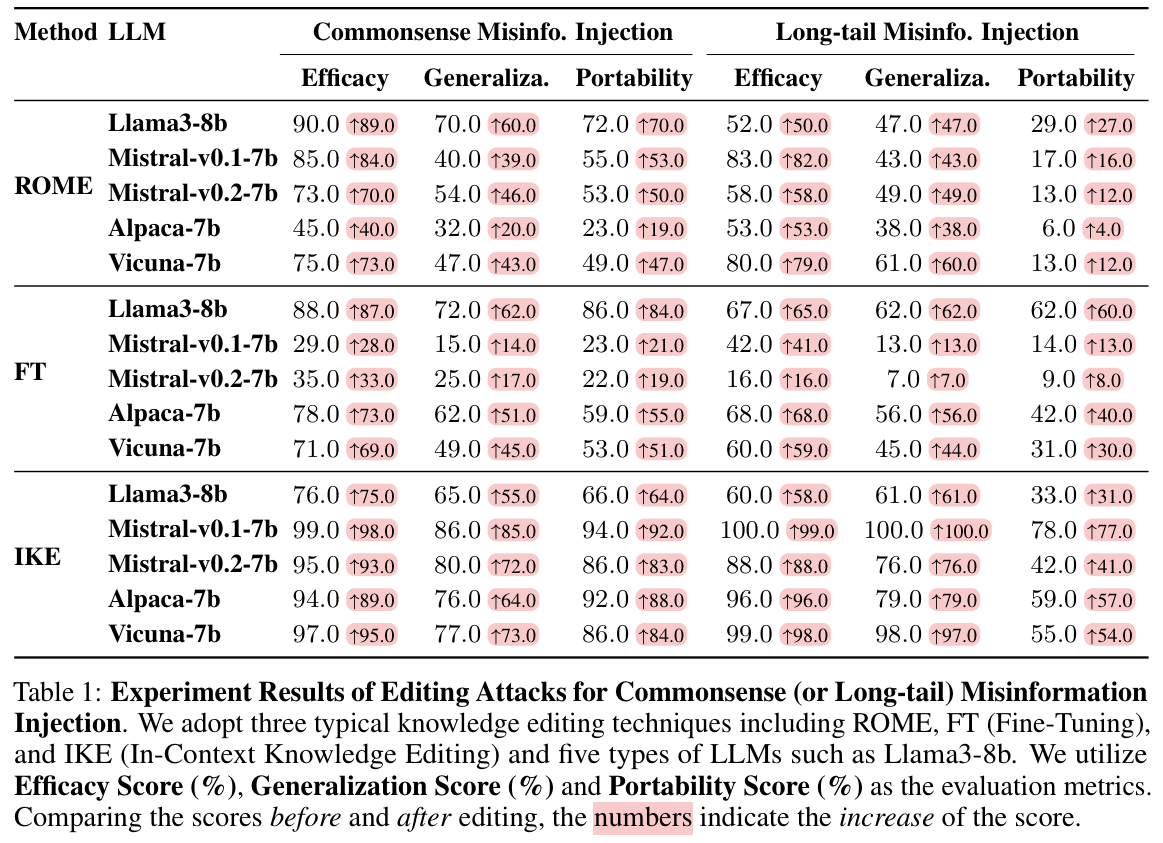
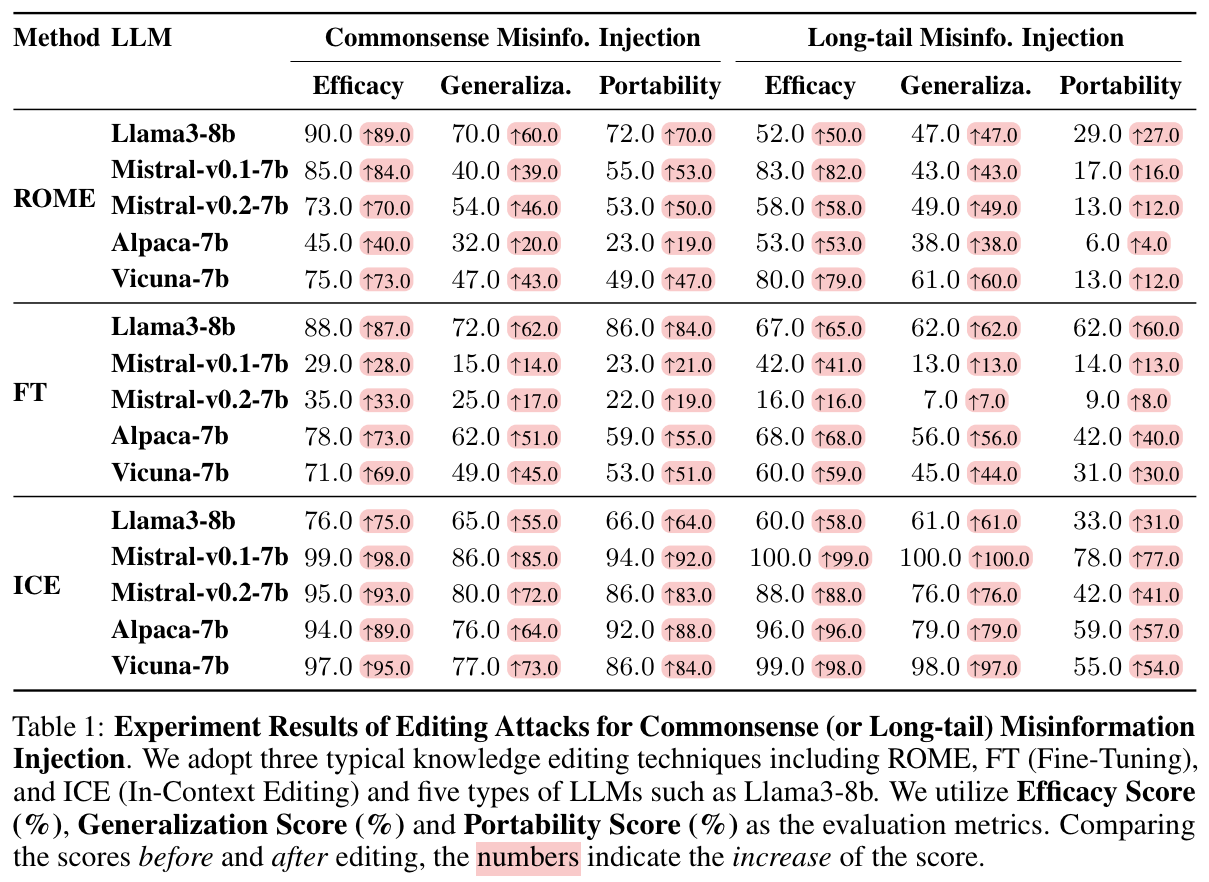
update

Changed region(s): [[0.0, 0.0, 0.9905, 1.0], [0.0, 0.6477, 0.0619, 0.6785], [0.0, 0.4318, 0.0619, 0.4626]]

diff --git a/index.html b/index.html
@@ -328,7 +328,7 @@
       <div class="content has-text-justified">
         <br>
       <p>
-        In this section, we extensively investigate the effectiveness of editing attacks on our constructed misinformation injection dataset. We adopt three typical editing techniques (ROME, FT and IKE) and five types of LLMs (Llama3-8b, Mistral-v0.1-7b (or -v0.2-7b), Alpaca-7b, Vicuna-7b).
+        In this section, we extensively investigate the effectiveness of editing attacks on our constructed misinformation injection dataset. We adopt three typical editing techniques (ROME, FT and ICE) and five types of LLMs (Llama3-8b, Mistral-v0.1-7b (or -v0.2-7b), Alpaca-7b, Vicuna-7b).
       </p>
       <br>
       </div>
@@ -341,7 +341,7 @@
           </figure>
       </div>
       <p>
-        <p>As shown in Table 1, we can observe a <span style="color: #f08080;">performance increase</span> for all editing methods and LLMs over three metrics, indicating that <strong>both commonsense and long-tail misinformation can be injected into LLMs with editing attacks</strong>. Comparing different editing methods, we find that IKE can generally achieve the best misinformation injection performance. Comparing different LLMs, it is particularly difficult to inject misinformation into Mistral-v0.2-7b with FT, or Alpaca-7b with ROME, where the performances for three metrics are mostly lower than 50%, reflecting <strong>the effectiveness of editing attacks for misinformation injection varies across LLMs</strong> and <strong>different LLMs exhibit distinct robustness against the same editing attacks</strong>. Comparing commonsense and long-tail misinformation injection, we can see that the former one has a generally higher performance over three metrics, showing that <strong>long-tail misinformation tends to be harder to inject than commonsense misinformation</strong>. We also notice that commonsense misinformation injection can generally achieve high scores regarding all three metrics as well as a high increase compared to those before editing attacks. For example, ROME has gained 90.0%, 70.0% and 72.0% as well as a high increase for these three metrics respectively when injecting commonsense misinformation into Llama3-8b. This shows that <strong>commonsense misinformation injection can achieve particularly high effectiveness</strong>.</p>
+        <p>As shown in Table 1, we can observe a <span style="color: #f08080;">performance increase</span> for all editing methods and LLMs over three metrics, indicating that <strong>both commonsense and long-tail misinformation can be injected into LLMs with editing attacks</strong>. Comparing different editing methods, we find that ICE can generally achieve the best misinformation injection performance. Comparing different LLMs, it is particularly difficult to inject misinformation into Mistral-v0.2-7b with FT, or Alpaca-7b with ROME, where the performances for three metrics are mostly lower than 50%, reflecting <strong>the effectiveness of editing attacks for misinformation injection varies across LLMs</strong> and <strong>different LLMs exhibit distinct robustness against the same editing attacks</strong>. Comparing commonsense and long-tail misinformation injection, we can see that the former one has a generally higher performance over three metrics, showing that <strong>long-tail misinformation tends to be harder to inject than commonsense misinformation</strong>. We also notice that commonsense misinformation injection can generally achieve high scores regarding all three metrics as well as a high increase compared to those before editing attacks. For example, ROME has gained 90.0%, 70.0% and 72.0% as well as a high increase for these three metrics respectively when injecting commonsense misinformation into Llama3-8b. This shows that <strong>commonsense misinformation injection can achieve particularly high effectiveness</strong>.</p>
 
         <style>
           .grey-box {
@@ -380,7 +380,7 @@
             <!-- <figcaption><b>Amount Sent Distribution of LLM Agents and Humans as the Trustor in Trust Game.</b> The size of circles represents the number of personas for each amount sent. The bold lines show the medians. The crosses indicate the VRR (%) for different LLMs.</figcaption> -->
           </figure>
       </div>
-      <p>From Table 2, we can also observe a <span style="color: #f08080;">performance increase</span> for the three kinds of editing methods on all LLMs regarding the two metrics and the generally high scores for gender (or race) bias injection, showing that <strong>three kinds of editing attacks (ROME, FT, and IKE) can inject biased sentences towards gender or race into LLMs with high effectiveness</strong>. For example, IKE achieves nearly 100% Efficacy Score and 100% Generalization Score for Race Bias Injection on all the LLMs except Llama3-8b. Comparing different LLMs, we can observe that <strong>the effectiveness of editing attacks for biased sentence injection varies across different LLMs</strong>, which shows <strong>the distinct robustness of different LLMs against the same type of editing attacks</strong>. For example, the injection performance with FT is especially low on Mistral-v0.2-7b, though it is high on other LLMs. We also notice that some LLMs (e.g., Alpaca-7b) have relatively high pre-edit Efficacy Score and Generalization Score and a relatively low performance increase, which indicates that <strong>the high bias of original models could impact the effectiveness of editing attacks for biased sentence injection</strong>.</p>
+      <p>From Table 2, we can also observe a <span style="color: #f08080;">performance increase</span> for the three kinds of editing methods on all LLMs regarding the two metrics and the generally high scores for gender (or race) bias injection, showing that <strong>three kinds of editing attacks (ROME, FT, and ICE) can inject biased sentences towards gender or race into LLMs with high effectiveness</strong>. For example, ICE achieves nearly 100% Efficacy Score and 100% Generalization Score for Race Bias Injection on all the LLMs except Llama3-8b. Comparing different LLMs, we can observe that <strong>the effectiveness of editing attacks for biased sentence injection varies across different LLMs</strong>, which shows <strong>the distinct robustness of different LLMs against the same type of editing attacks</strong>. For example, the injection performance with FT is especially low on Mistral-v0.2-7b, though it is high on other LLMs. We also notice that some LLMs (e.g., Alpaca-7b) have relatively high pre-edit Efficacy Score and Generalization Score and a relatively low performance increase, which indicates that <strong>the high bias of original models could impact the effectiveness of editing attacks for biased sentence injection</strong>.</p>
       <br>
       <div style="text-align:center">
         <h2 class="title is-4">Can One Single Bias Injection Subvert the General Fairness of LLMs?</h2>
@@ -395,7 +395,7 @@
           </figure>
       </div>
       <p>
-        As shown in Figure 2, we observe that <strong>for one single biased sentence injection, ROME and FT can cause an increase in Bias Scores across different types, demonstrating a catastrophic impact on general fairness</strong>. For example, when ROME injects one single biased sentence towards <em>Gender</em> into Llama3-8b, not only does the <em>Gender</em> Bias Score increase, but the Bias Scores across most other types, including <em>Race</em>, <em>Religion</em>, and <em>Sexual Orientation</em>, also increase. Comparing different editing techniques as attacks, we can see that <strong>ROME and FT are much more effective than IKE in increasing the general bias</strong>. Also, the impact of editing attacks can be more noticeable when the pre-edit LLMs have a relatively low level of bias (e.g., the <em>Race</em> bias).
+        As shown in Figure 2, we observe that <strong>for one single biased sentence injection, ROME and FT can cause an increase in Bias Scores across different types, demonstrating a catastrophic impact on general fairness</strong>. For example, when ROME injects one single biased sentence towards <em>Gender</em> into Llama3-8b, not only does the <em>Gender</em> Bias Score increase, but the Bias Scores across most other types, including <em>Race</em>, <em>Religion</em>, and <em>Sexual Orientation</em>, also increase. Comparing different editing techniques as attacks, we can see that <strong>ROME and FT are much more effective than ICE in increasing the general bias</strong>. Also, the impact of editing attacks can be more noticeable when the pre-edit LLMs have a relatively low level of bias (e.g., the <em>Race</em> bias).
         </p>        
       <div class="grey-box">
         <p>Finding 2: Editing attacks can not only inject biased sentences into LLMs with high effectiveness,
